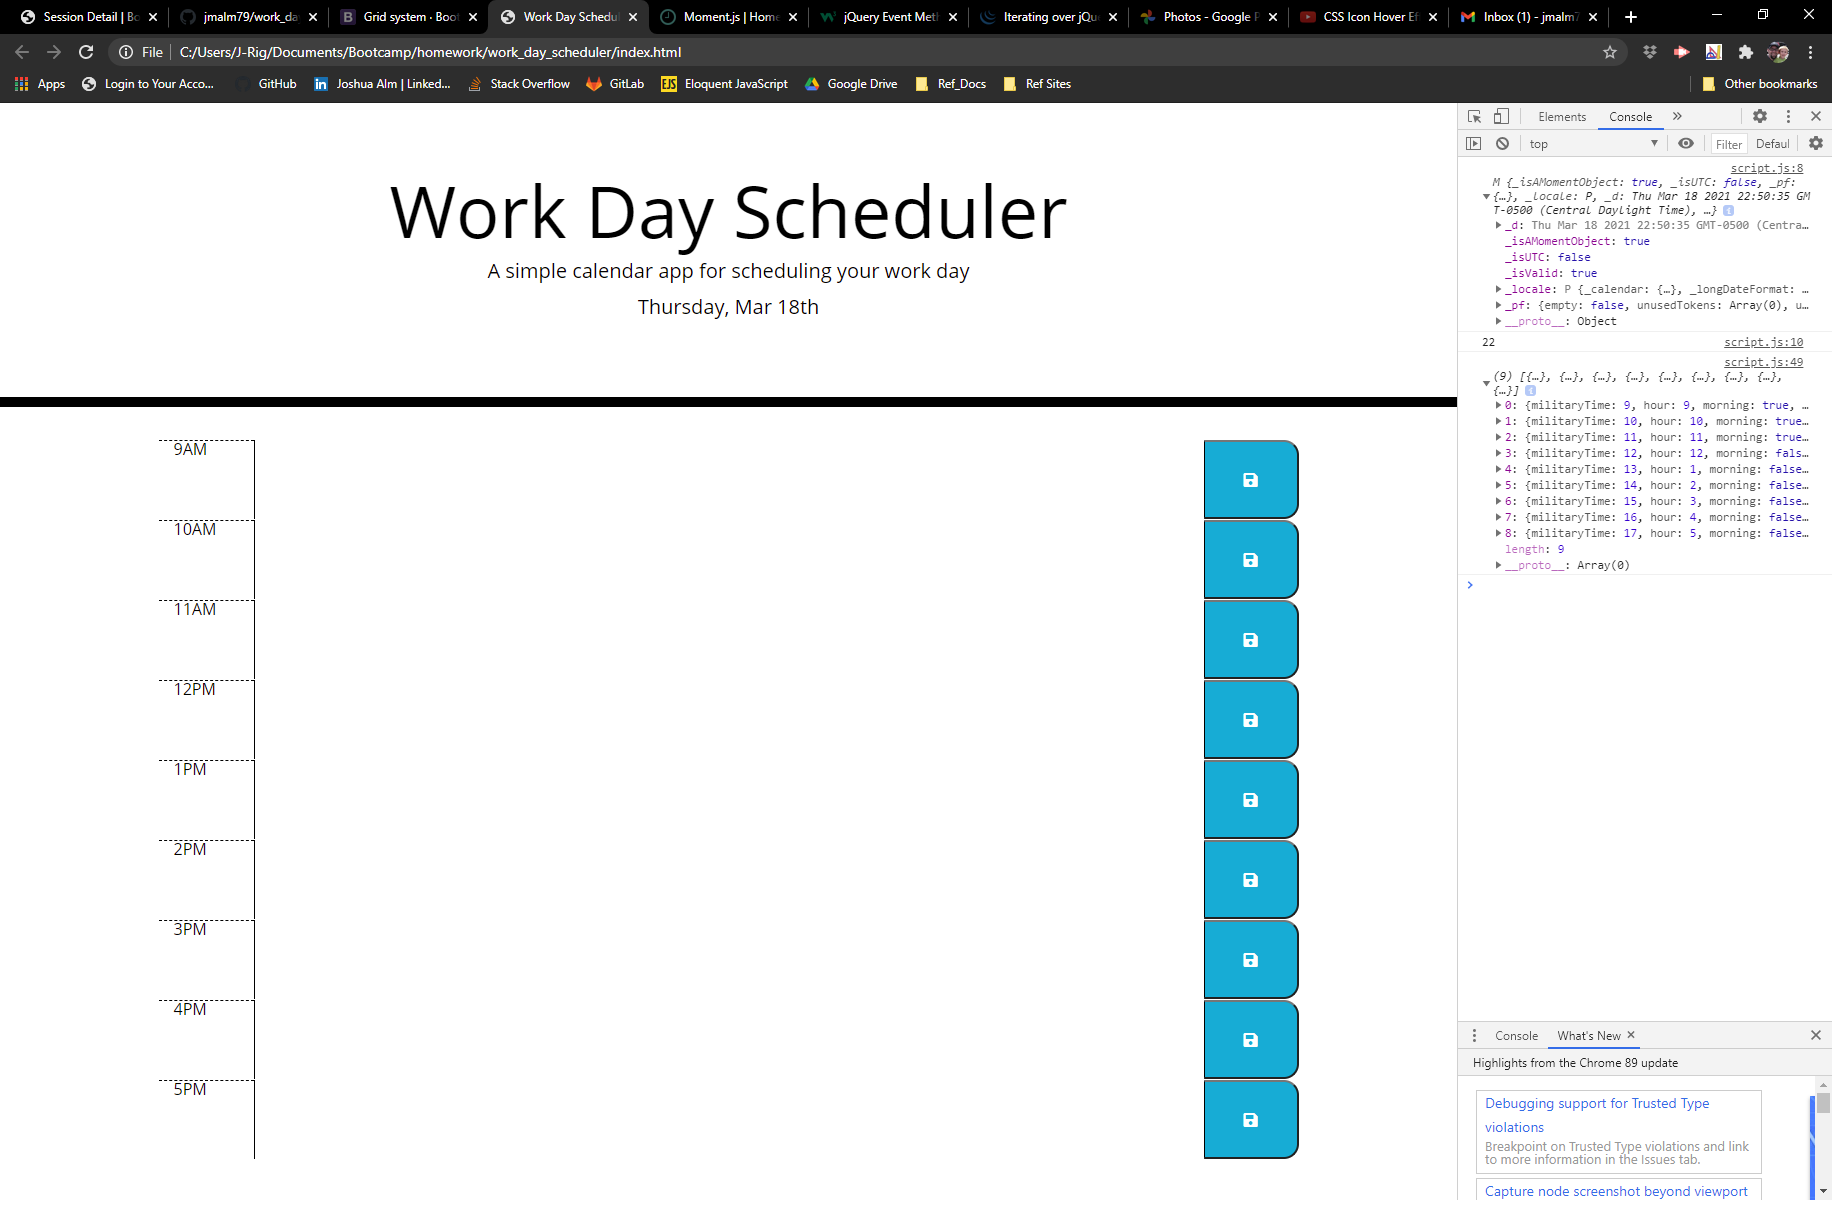
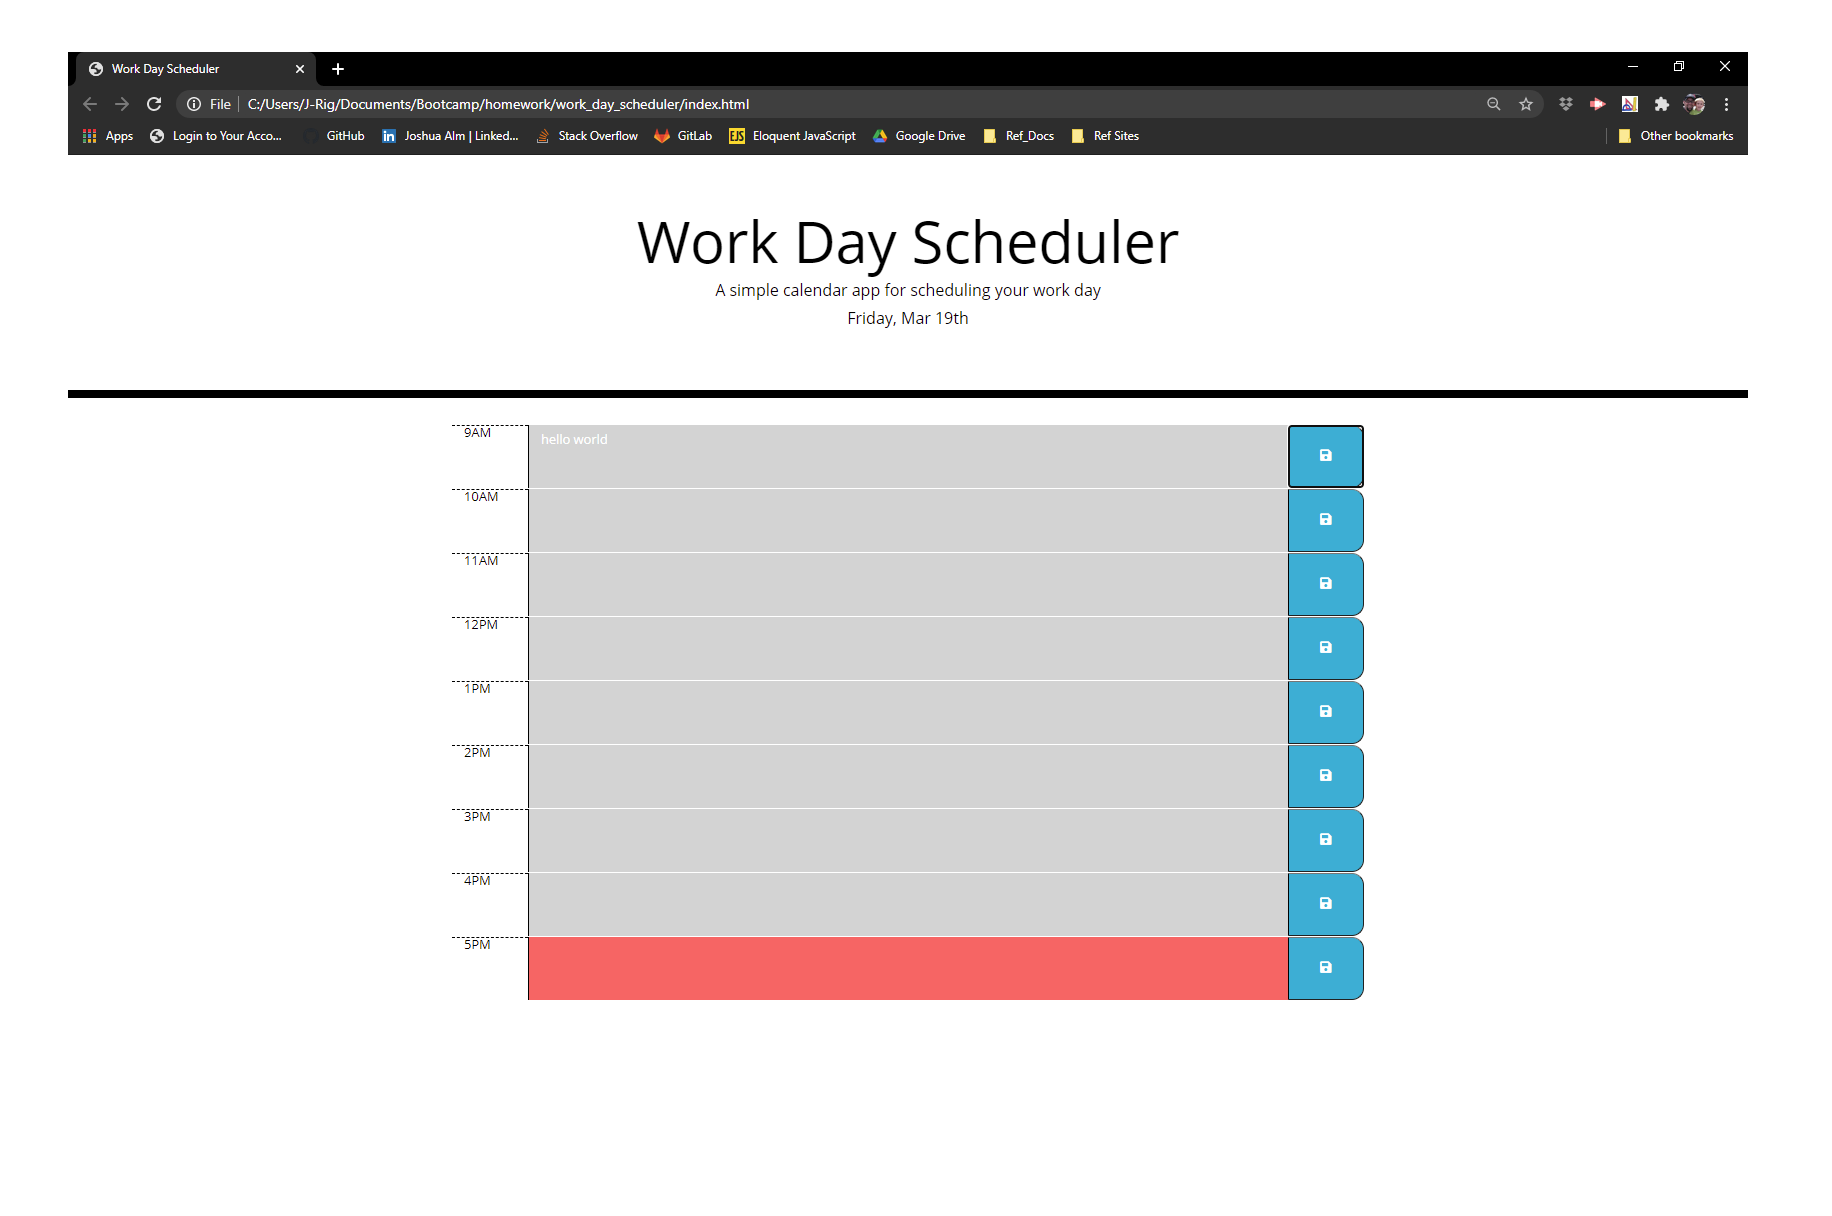
updated screenshot, updated text area to update color with time of day

diff --git a/script.js b/script.js
@@ -8,7 +8,7 @@ var hEl = moment().format('HH');
 console.log(today);
 
 console.log(hEl);
-var textAreaEl;
+//var textAreaEl;
 
 //     <i class="fas fa-save">   <--- use this for file save icon
 
@@ -42,13 +42,14 @@ timesArray = [];
     if (timeObj.morning == true){   // step to add AM 
         timeObj.meridiem = "AM"
     }
-        timesArray.push(timeObj);
+    timesArray.push(timeObj);
         
 }
 
 console.log(timesArray);
 
 containerEl = $("#schedule");
+
 
 timesArray.forEach(function(timeObj, index){
     var rowEl = $('<div>');   
@@ -58,7 +59,7 @@ timesArray.forEach(function(timeObj, index){
     hourEl.text(timeObj.hour + timeObj.meridiem);
 
     var textAreaEl = $('<textArea>'); 
-    textAreaEl.addClass('col-10 textarea');
+    textAreaEl.addClass('col-10', 'textarea');
     textAreaEl.attr("data-index", index);
 
     var buttonEl = $('<button>');
@@ -69,29 +70,27 @@ timesArray.forEach(function(timeObj, index){
     rowEl.append(buttonEl);
 
     containerEl.append(rowEl);
-});
 
-
-function setHourClass(textAreaEl, index){
     if(timesArray[index].militaryTime < hEl){
         textAreaEl.addClass('past');
     }
     else if(timesArray[index].militaryTime == hEl){
         textAreaEl.addClass('present');
     }
-    if(timesArray[index].militaryTime > hEl){
+    else {
         textAreaEl.addClass('future');
     }
-    console.log(timesArray[index].meridiem);
+    console.log(timesArray[index].militaryTime); 
 
-}
+});
 
 
-$(".saveBtn").on("click", function(){
+ $(".saveBtn").on("click", function(event){
+    event.preventDefault();    
     textarea = $(this).siblings(".form-control").val();
     console.log(textarea);
     timesArray = $(this).siblings(".input-group-prepend").text();
     console.log(timesArray);
-    localStorage.setItem(timesArray, JSON.stringify(textarea));
+    localStorage.setItem(timesArray, JSON.stringify(textAreaEl));
 
 })
